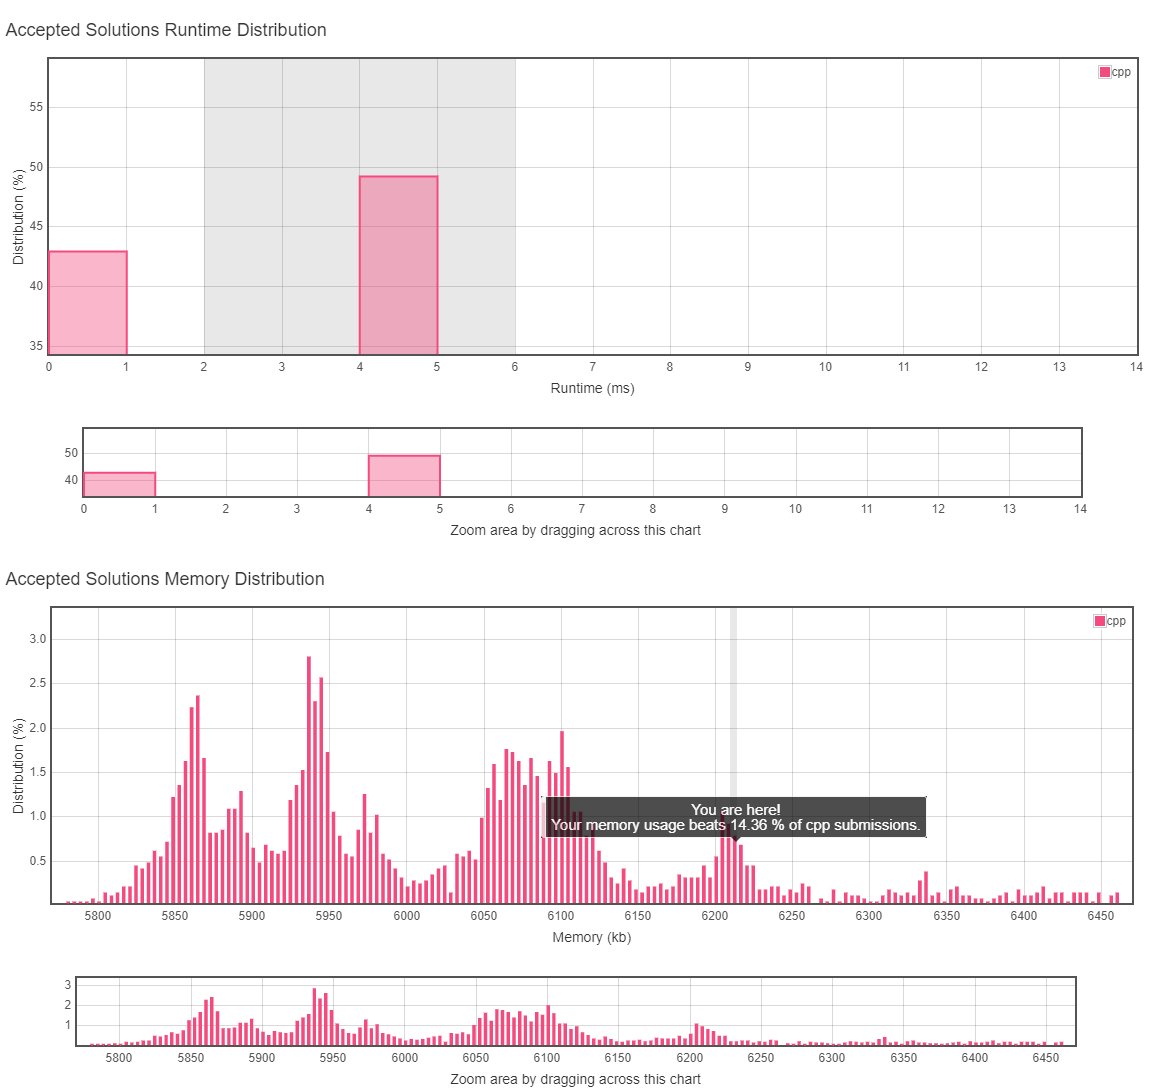
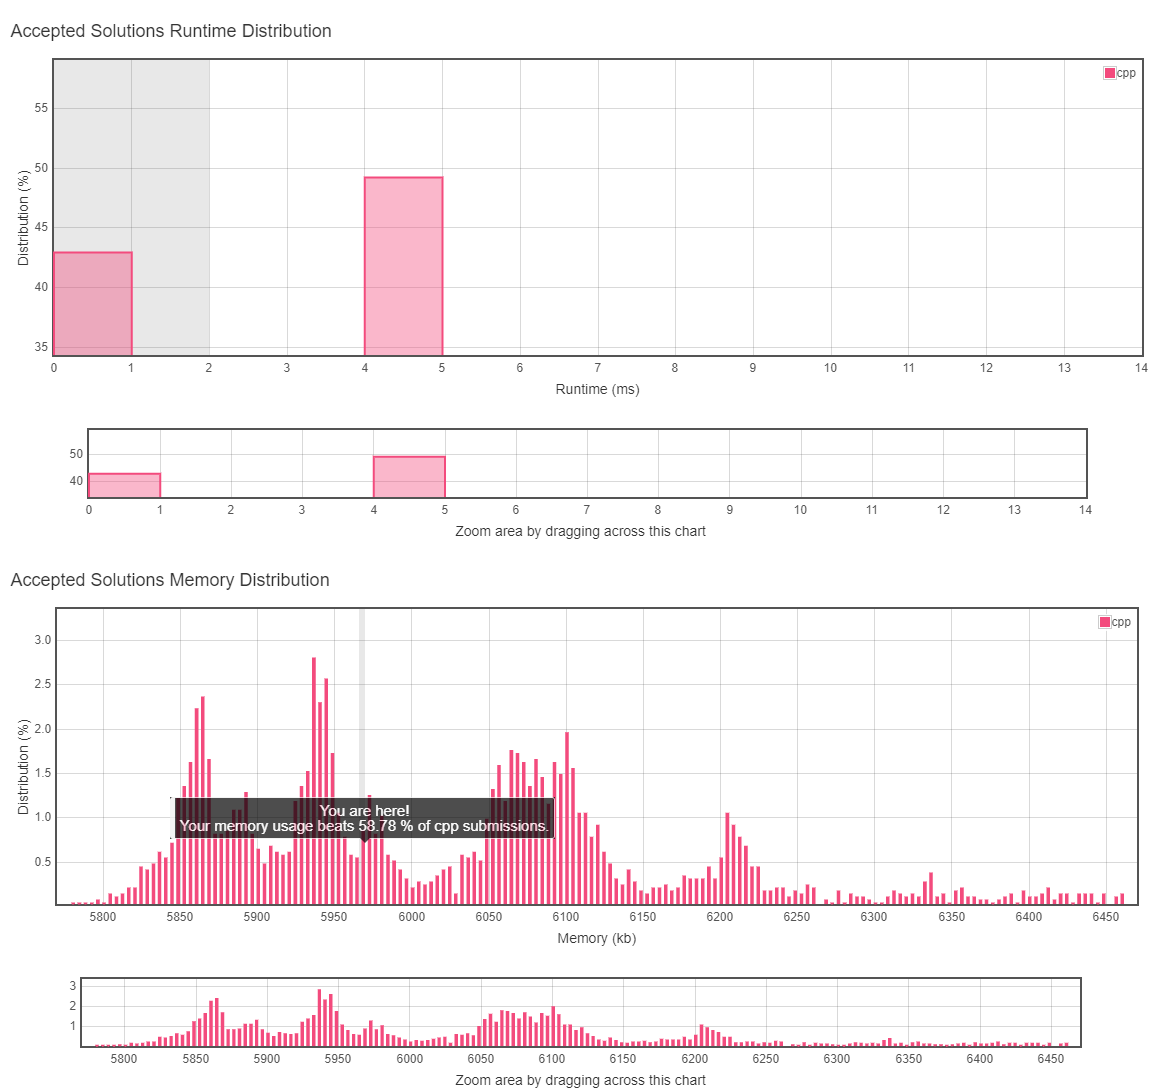
fix 7

diff --git a/7_Rverse_Integer/Solution.cc b/7_Rverse_Integer/Solution.cc
@@ -6,20 +6,16 @@ using namespace std;
 class Solution {
  public:
   int reverse(int x) {
-    string buffer = to_string(x);
-    int i1 = x < 0? 1 : 0;
-    int i2 = buffer.size() - 1;
-    char c;
-    while(i2 > i1){
-      c = buffer[i1];
-      buffer[i1++] = buffer[i2];
-      buffer[i2--] = c;
+    bool is_pos = x > 0;
+    long buffer = 0;
+    if(is_pos)
+      x = -x;
+    while( x != 0){
+      buffer = buffer * 10 + x % 10;
+      if(buffer < INT_MIN)
+        return 0;
+      x /= 10;
     }
-    long res = stol(buffer);
-    if(res > INT_MAX)
-      return 0;
-    if(res < INT_MIN)
-      return 0;
-    return static_cast<int>(res);
+    return static_cast<int>(is_pos? -buffer: buffer);
   }
 };
